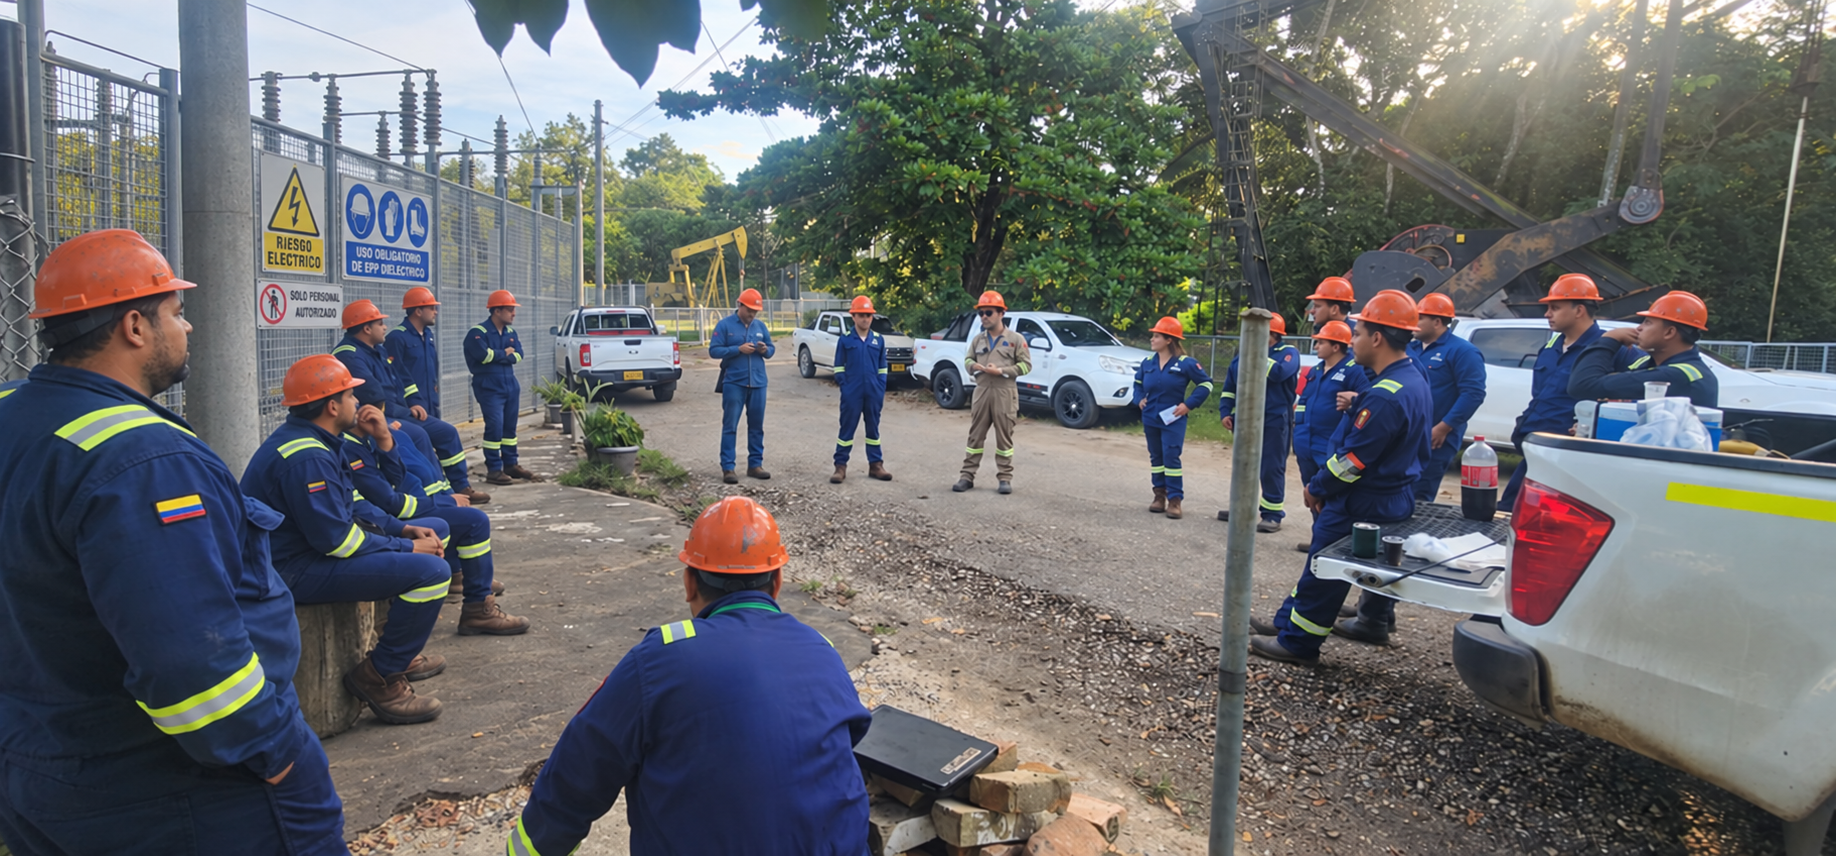
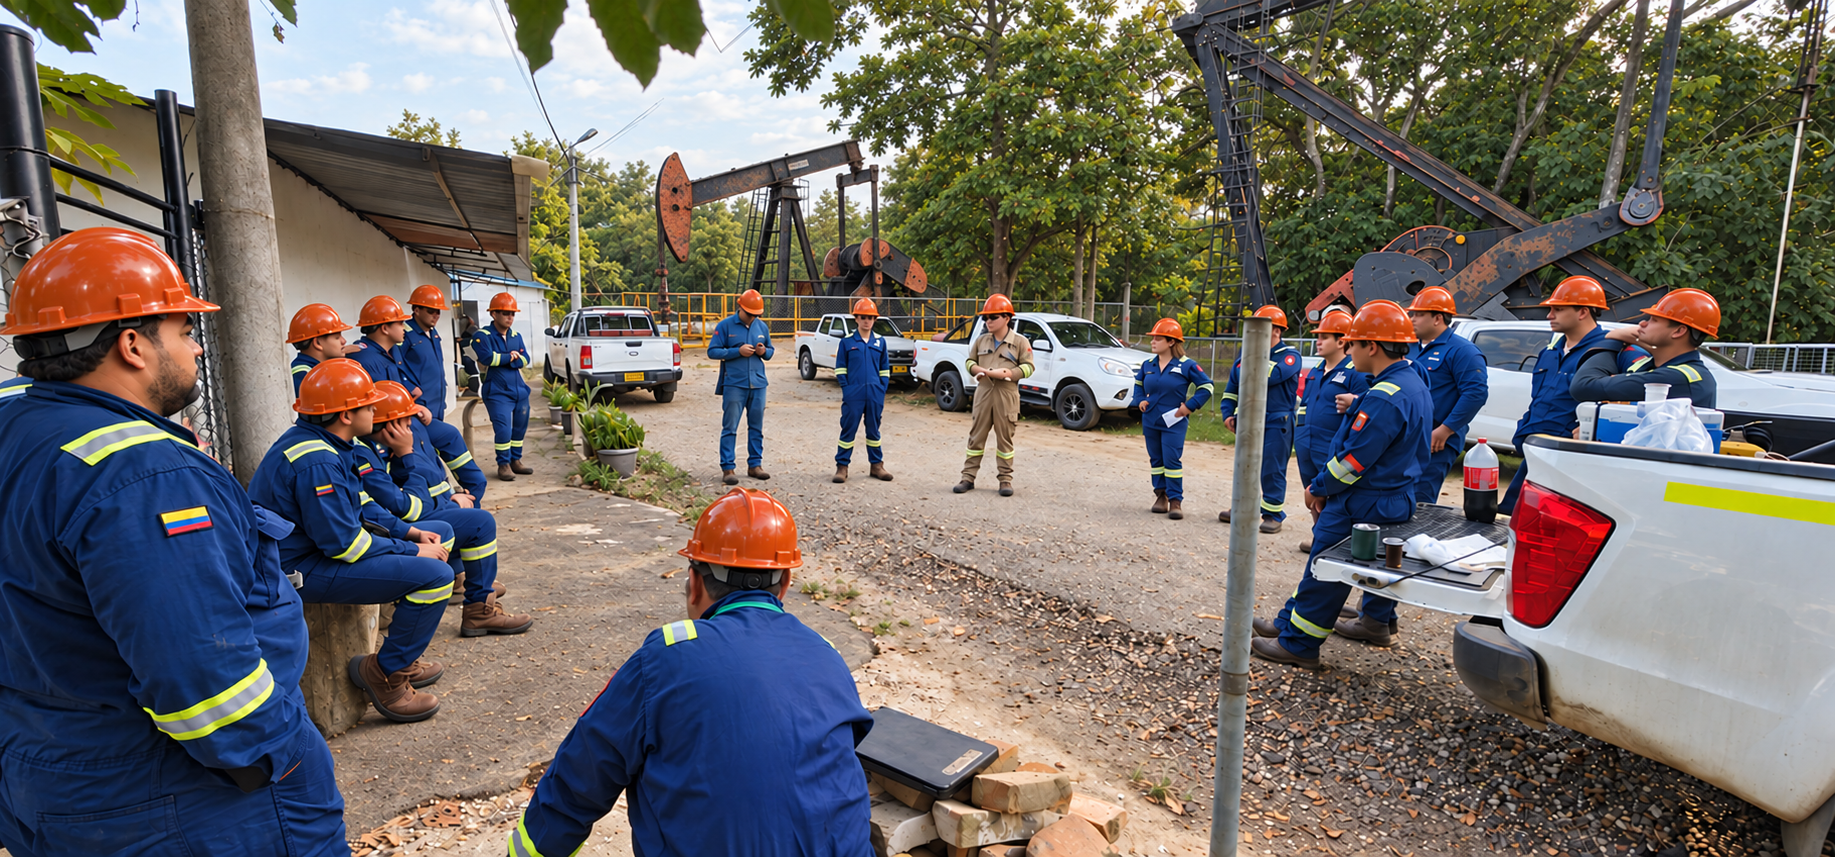
Actualiza imagen del equipo técnico en mantenimiento

diff --git a/supervision.html b/supervision.html
@@ -113,7 +113,7 @@
     <p>Supervisamos el trabajo, coordinamos al personal y verificamos competencias, riesgos y calidad de ejecución. Las metodologías de mantenimiento y la gerencia de sistemas de potencia respaldan cada intervención.</p>
   </div>
   <figure class="field-team-photo">
-    <img src="assets/supervision-powerai-energy.png" width="1836" height="856" loading="lazy" alt="Personal técnico con cascos naranja quemado reunido en campo, junto al cerramiento de una subestación y unidades de levantamiento artificial">
+    <img src="assets/supervision-powerai-energy.png?v=20261015" width="1835" height="857" loading="lazy" alt="Equipo técnico con cascos naranja reunido para la coordinación de actividades en campo, junto a unidades de levantamiento artificial tipo machín">
     <figcaption><strong>Supervisión y coordinación de personal técnico.</strong></figcaption>
   </figure>
 </section>
